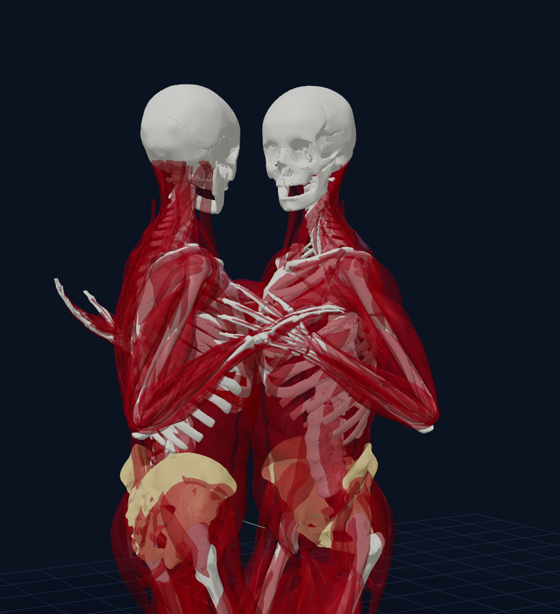
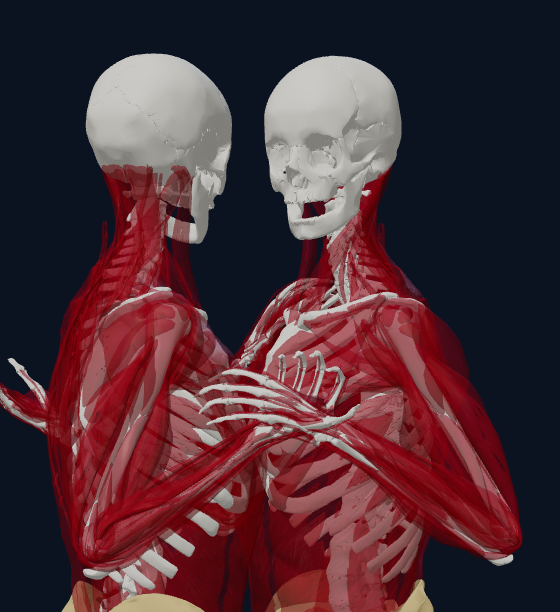
docs(#179): attitudes des mains jointes refilmées avec la prise articulée
Les images du dossier dataient d'avant les doigts et le poignet articulés (#177). Les trois attitudes
sont refilmées, étiquettes de rôle rognées (caméra du côté des mains jointes : le guideur est à droite).
Le README dit ce qui est posé, ses limites, et la question posée au propriétaire le 23 novembre.

diff --git a/docs/elections/2026-11-22-mains/README.md b/docs/elections/2026-11-22-mains/README.md
@@ -21,33 +21,48 @@ Position fermée : bustes face à face, pieds proches. Dossier ouvert le 22 nove
 ## Trois attitudes filmables
 
 Kizomba, sur place, 90 bpm, haut du corps anatomique (`haut=1`), muscles affichés. Les interrupteurs `?essai=` sont
-inertes sans le paramètre : l'application ne change pas.
+inertes sans le paramètre : l'application ne change pas. Images refaites le 23 novembre 2026, avec la prise posée
+(doigts et poignet articulés).
 
 | A — aujourd'hui | B — `?essai=mainsCote` | C — `?essai=mainsBasses` |
 |---|---|---|
 | ![A](mains-A-entre-les-poitrines.gif) | ![B](mains-B-sur-le-cote.gif) | ![C](mains-C-sur-le-cote-plus-bas.gif) |
 | ![A](mains-A-entre-les-poitrines.png) | ![B](mains-B-sur-le-cote.png) | ![C](mains-C-sur-le-cote-plus-bas.png) |
-| Entre les deux épaules, 6 cm sous elles : mains cachées entre les cages thoraciques, coudes repliés jusqu'à 27°, doigts dans les côtes du partenaire. | 20 cm vers l'extérieur du couple, à la même hauteur : mains visibles devant les épaules. | 14 cm vers l'extérieur, 14 cm plus bas : mains à hauteur de taille, avant-bras presque horizontaux, coudes détendus. |
+| Entre les deux épaules, 6 cm sous elles : mains cachées entre les cages thoraciques, coudes repliés jusqu'à 27°. | 20 cm vers l'extérieur du couple, à la même hauteur : mains visibles devant les épaules. | 14 cm vers l'extérieur, 14 cm plus bas : mains à hauteur de taille, avant-bras presque horizontaux, coudes détendus. |
 
-Refaire les films (serveur de l'application lancé, navigateur sans fenêtre) :
+La caméra est du côté des mains jointes : le guideur est à droite de l'image, la suiveuse à gauche. Les étiquettes de
+rôle du bas de l'image, fixes, diraient l'inverse : elles sont rognées.
+
+Refaire les films (serveur de l'application lancé, navigateur sans fenêtre), puis rogner les étiquettes :
 
 ```bash
-GPU=1 BPM=90 node scripts/capture_figure_gif.mjs docs/elections/2026-11-22-mains/mains-B-sur-le-cote.gif \
+GPU=1 BPM=90 node scripts/capture_figure_gif.mjs /tmp/B.gif \
   "http://localhost:5173/?mode=pair&bare=1&haut=1&muscles=1&campos=1.9,1.45,1.2&camtgt=0.15,1.2,0&essai=mainsCote" 4 12
+node_modules/ffmpeg-static/ffmpeg -y -i /tmp/B.gif -filter_complex \
+  "crop=440:434:0:0,split[a][b];[a]palettegen=max_colors=96[p];[b][p]paletteuse=dither=bayer:bayer_scale=4" \
+  -loop 0 docs/elections/2026-11-22-mains/mains-B-sur-le-cote.gif
 ```
 
-(`essai=temoin` pour A, `essai=mainsBasses` pour C.)
+(`essai=temoin` pour A, `essai=mainsBasses` pour C.) Images fixes : même adresse avec `beat=2`,
+`campos=2.2,1.35,1.3&camtgt=0.15,1.15,0`.
 
-## Ce qui manque pour la prise décrite
+## La prise, posée (#177)
 
-1. **Poignet** : la main est aujourd'hui dans l'axe de l'avant-bras. Pour poser la main de la suiveuse en travers de
-   celle du guideur, le poignet doit s'articuler (flexion, inclinaison), dans son amplitude.
-2. **Doigts** : la main anatomique est une seule pièce. Il faut articuler les phalanges (serrées, refermées autour de
-   l'index du guideur) et le pouce (ouvert, croisé).
-3. **Relation entre les deux mains** : la main de la suiveuse se place par rapport à celle du guideur (bas de la paume
-   au bord de sa main, doigts vers son index), au lieu de viser le même point que lui.
+Les trois manques relevés à l'ouverture du dossier sont comblés dans le haut du corps anatomique
+([spec](../../spec-haut-du-corps.md), « Les doigts, le poignet et la prise des mains ») :
+
+1. **Poignet** : il s'articule, jusqu'à 57° hors de l'axe de l'avant-bras pour la suiveuse.
+2. **Doigts** : trois articulations par doigt ; la main du guideur s'offre (phalanges ensemble, pouce ouvert), celle
+   de la suiveuse se referme.
+3. **Relation entre les deux mains** : la main de la suiveuse se place sur celle du guideur, en travers, le bas de sa
+   paume au bord de sa main, ses doigts vers son index, son pouce vers le sien.
+
+Limites, mesurées dans la même spec : le poignet de la suiveuse va souvent au bout de son amplitude (paumes face à
+face à 20° à 35° près, surtout dans l'attitude A) ; les doigts ne se serrent pas latéralement et rien ne les empêche
+d'entrer dans la main de l'autre.
 
 ## À trancher par le propriétaire
 
-- Quelles attitudes garder (A, B, C, d'autres), et laquelle par défaut en kizomba.
+- Quelles attitudes garder (A, B, C, d'autres), et laquelle par défaut en kizomba. Question posée le 23 novembre 2026
+  avec ces images ; proposition de l'agent : B par défaut, C gardée comme attitude, A retirée.
 - La prise, une fois posée : à juger sur des gros plans.
